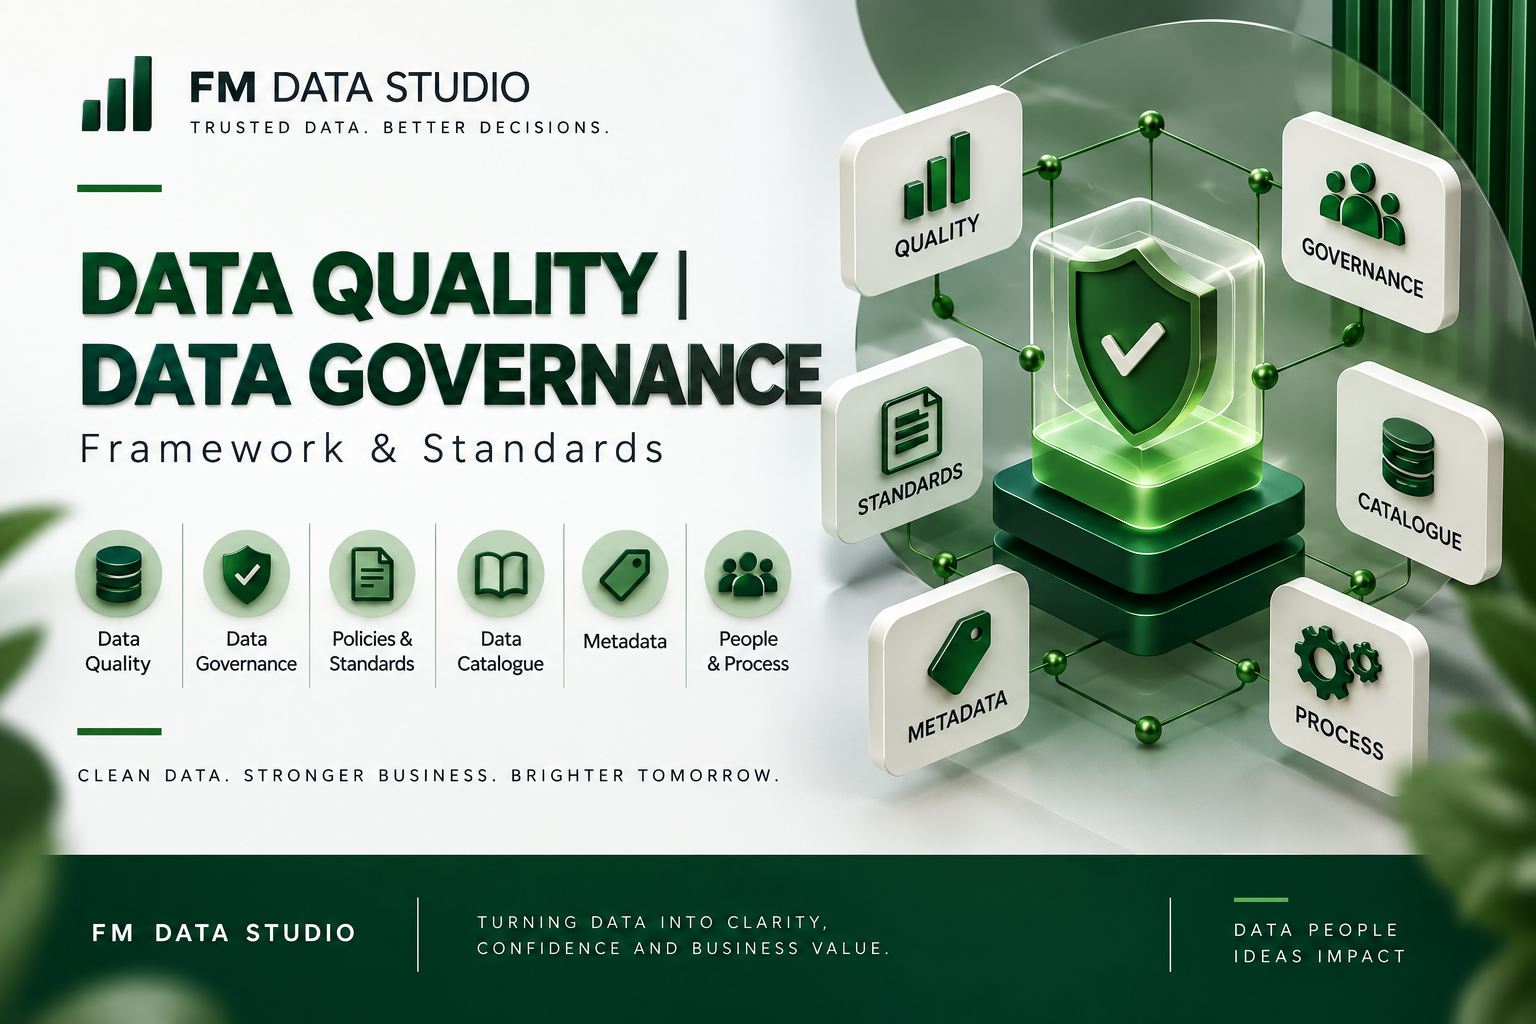
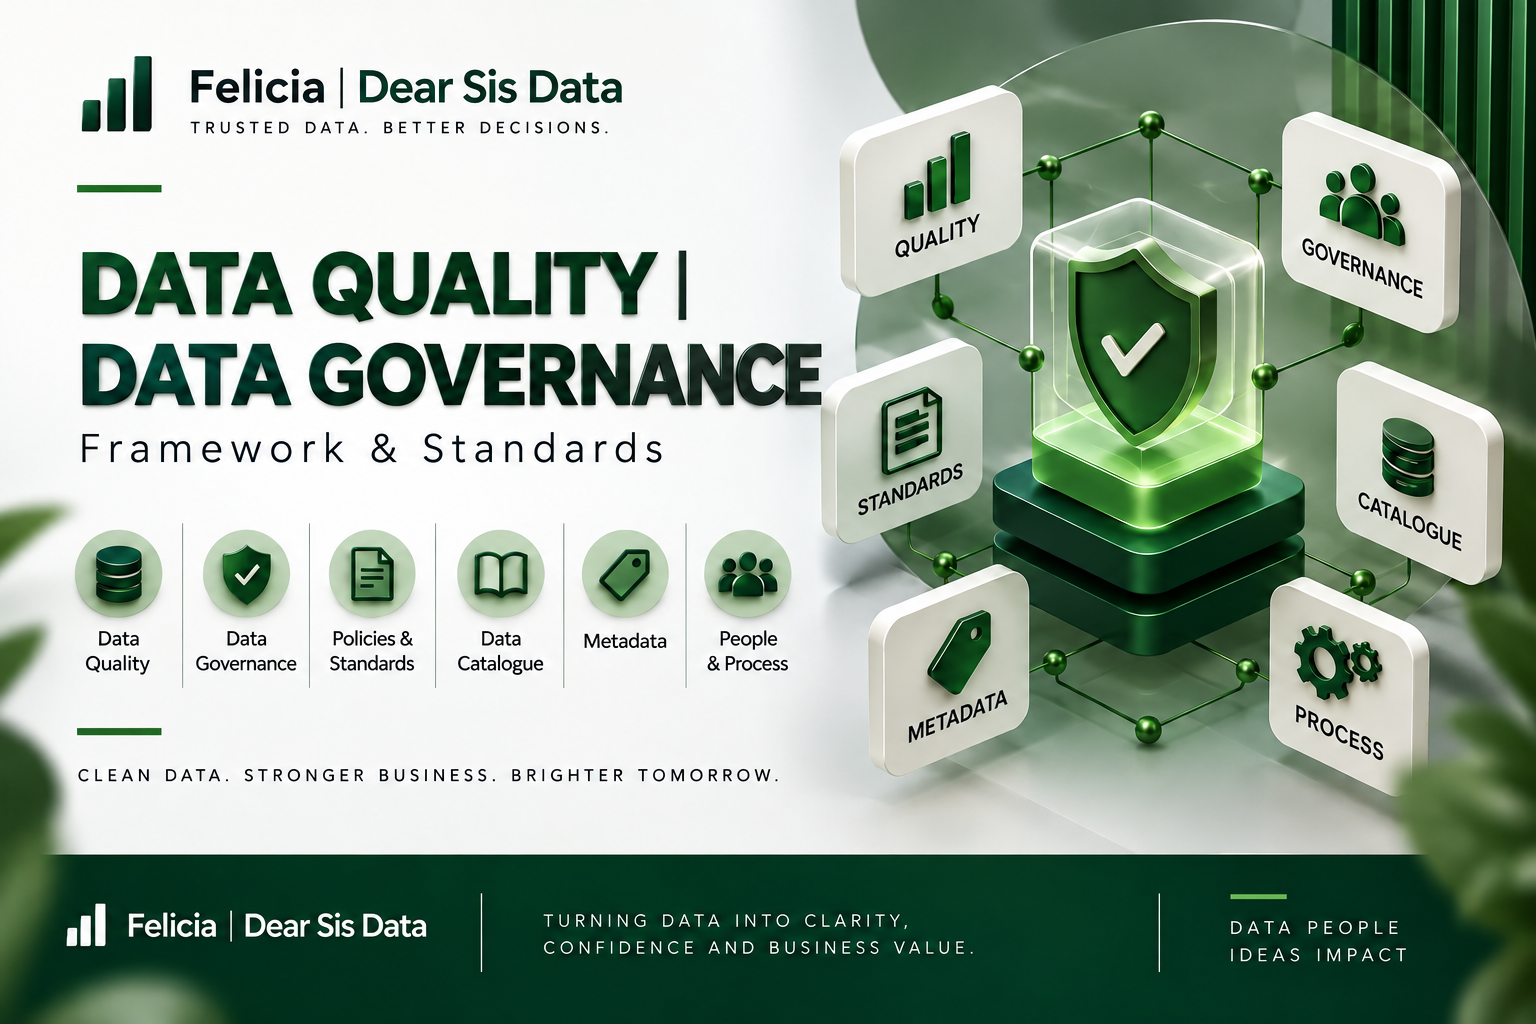
Update Dear Sis Data portfolio

diff --git a/assets/css/main.css b/assets/css/main.css
@@ -3284,8 +3284,12 @@ input, select, textarea {
 /* Intro */
 
 	#intro {
+		background-image: url("../../images/portfolio-bg.jpg.png");
+background-size: 100% 100%;
+background-position: top;
+background-repeat: no-repeat;
 		color: #ffffff;
-		padding: 8rem 4rem 6rem 4rem ;
+		padding: 14rem 4rem 6rem 4rem ;
 		-moz-align-items: center;
 		-webkit-align-items: center;
 		-ms-align-items: center;
@@ -4687,3 +4691,35 @@ input, select, textarea {
 		}
 
 	}
+/* Position and style the portfolio username */
+#intro p a .handle {
+    text-transform: lowercase;
+	 display: inline-block;
+     margin-top: 10px;
+}
+
+/* Keep navigation arrow centered */
+#intro .actions {
+    display: flex;
+    justify-content: center;
+}
+
+
+	/* Project Image Fix */
+#main .posts article img {
+    width: 100%;
+    height: auto;
+    display: block;
+    object-fit: cover;
+}
+
+#main .posts article > a {
+    display: block;
+    width: 100%;
+    overflow: hidden;
+}
+
+/* Position the Dear Sis Data heading lower */
+#intro h1 {
+    transform: translateY(180px);
+}

diff --git a/index.html b/index.html
@@ -6,7 +6,7 @@
 -->
 <html>
 	<head>
-		<title>Felicia The Analyst Portfolio</title>
+		<title>Felicia | Dear Sis Data</title>
 		<meta charset="utf-8" />
 		<meta name="viewport" content="width=device-width, initial-scale=1, user-scalable=no" />
 		<link rel="stylesheet" href="assets/css/main.css" />
@@ -19,9 +19,10 @@
 
 				<!-- Intro -->
 					<div id="intro">
-						<h1>Felicia The Analyst Portfolio<br />
+						<h1>Felicia | Dear Sis Data<br />
 				
-			             <p><a href="https://github.com/FeliciaTheAnalyst/Portfolio-Projects"><span class="handle">@feliciaanalyst</span></a>
+			             <p><a href="https://github.com/FeliciaTheAnalyst/Portfolio-Projects"><span class="handle">@feliciasisdata
+						 </span></a>
 						                                            <ul class="actions">
 							<li><a href="#header" class="button icon solid solo fa-arrow-down scrolly">Continue</a></li>
 						</ul>
